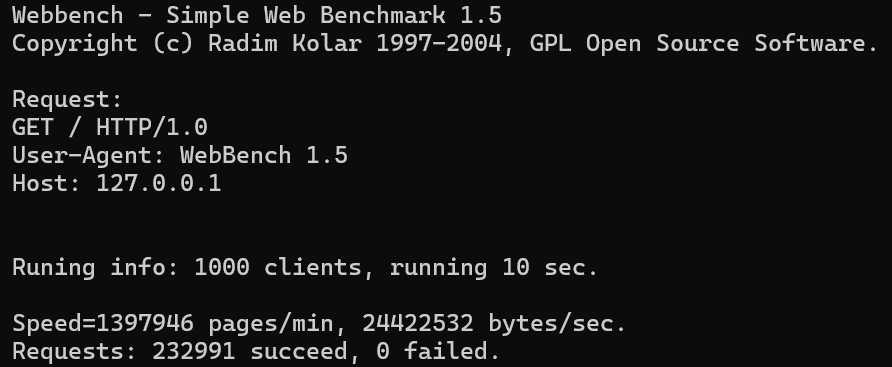
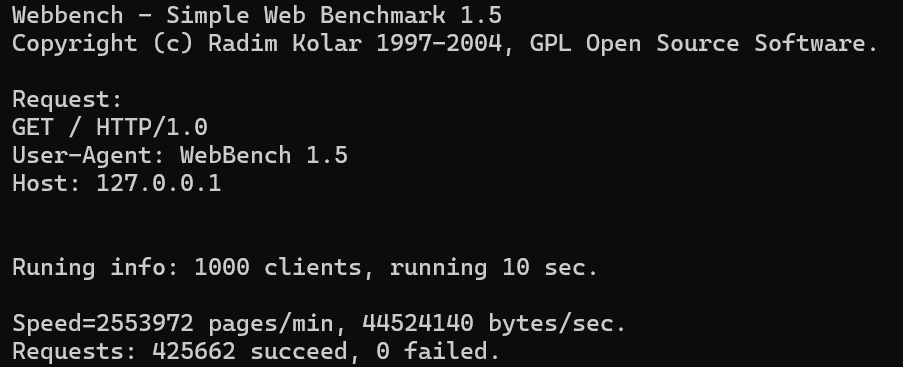
docs: 更新 README 文档

diff --git a/README.md b/README.md
@@ -4,24 +4,31 @@
 
 ## ✨ 核心功能
 
-- 🚄 **高并发处理**：基于 epoll 边缘触发（ET）模式，单机 QPS 可达 **23,299**（WebBench 压测）。
+- 🚄 **高并发处理**：基于 epoll 边缘触发（ET）模式，经 WebBench 压测，QPS 可达 **42,566**。
 - 🧰 **线程池调度**：动态任务分发与异常捕获，提升资源利用率。
 - 📦 **静态托管**：自动识别 MIME 类型，支持目录索引与安全校验。
-- 📝 **动态解析**：处理 GET/POST 请求，支持表单数据提取与结构化响应。
-- 📊 **分级日志**：DEBUG/INFO/WARNING/ERROR 四级日志，按日轮换文件。
+- 📝 **动态解析**：处理 GET / POST 请求，支持表单数据提取与结构化响应。
+- 📊 **分级日志**：DEBUG / INFO / WARNING / ERROR 四级日志，按日轮换文件。
 - ⚙ **启动时配置**：通过 `config.ini` 初始化端口、线程数等参数。
-- 🔒 **安全防护**：路径规范化检查，Linger 模式控制连接行为。
+- 🔒 **安全防护**：路径规范化检查，Linger 模式控制连接行为，防止目录遍历攻击。
 
 ## 📂 项目架构
 
 ```
 WebServer/
-├── docs/               # 项目的文档目录
+├── docs/
+│   ├── core/           # 核心类相关的文档
 │   ├── images/         # 存放文档的图片
-│   └── utils           # 工具类相关的文档
-├── include/            # 存放项目的头文件
-│   └── utils           # 工具类头文件
-├── src/                # 存放项目的源代码文件
+│   └── utils/          # 工具类相关的文档
+│
+├── include/
+│   ├── core/           # 核心类头文件
+│   └── utils/          # 工具类头文件
+│
+├── src/
+│   ├── core/           # 核心类源文件
+│   └── utils/          # 工具类源文件
+│
 ├── static/             # 存放静态文件（HTML、CSS、JS、图片等）
 ├── CMakeLists.txt      # CMake 配置文件，用于构建项目
 ├── config.ini          # 服务器配置文件
@@ -118,7 +125,7 @@ linger = false
 - **测试时长**：10 秒
 
 ### 测试结果
-- **QPS**：23,299
+- **QPS**：42,566
 - **截图**：[压测结果](./docs/images/webbench_result.png)
 
 ![压测截图](./docs/images/webbench_result.png)
